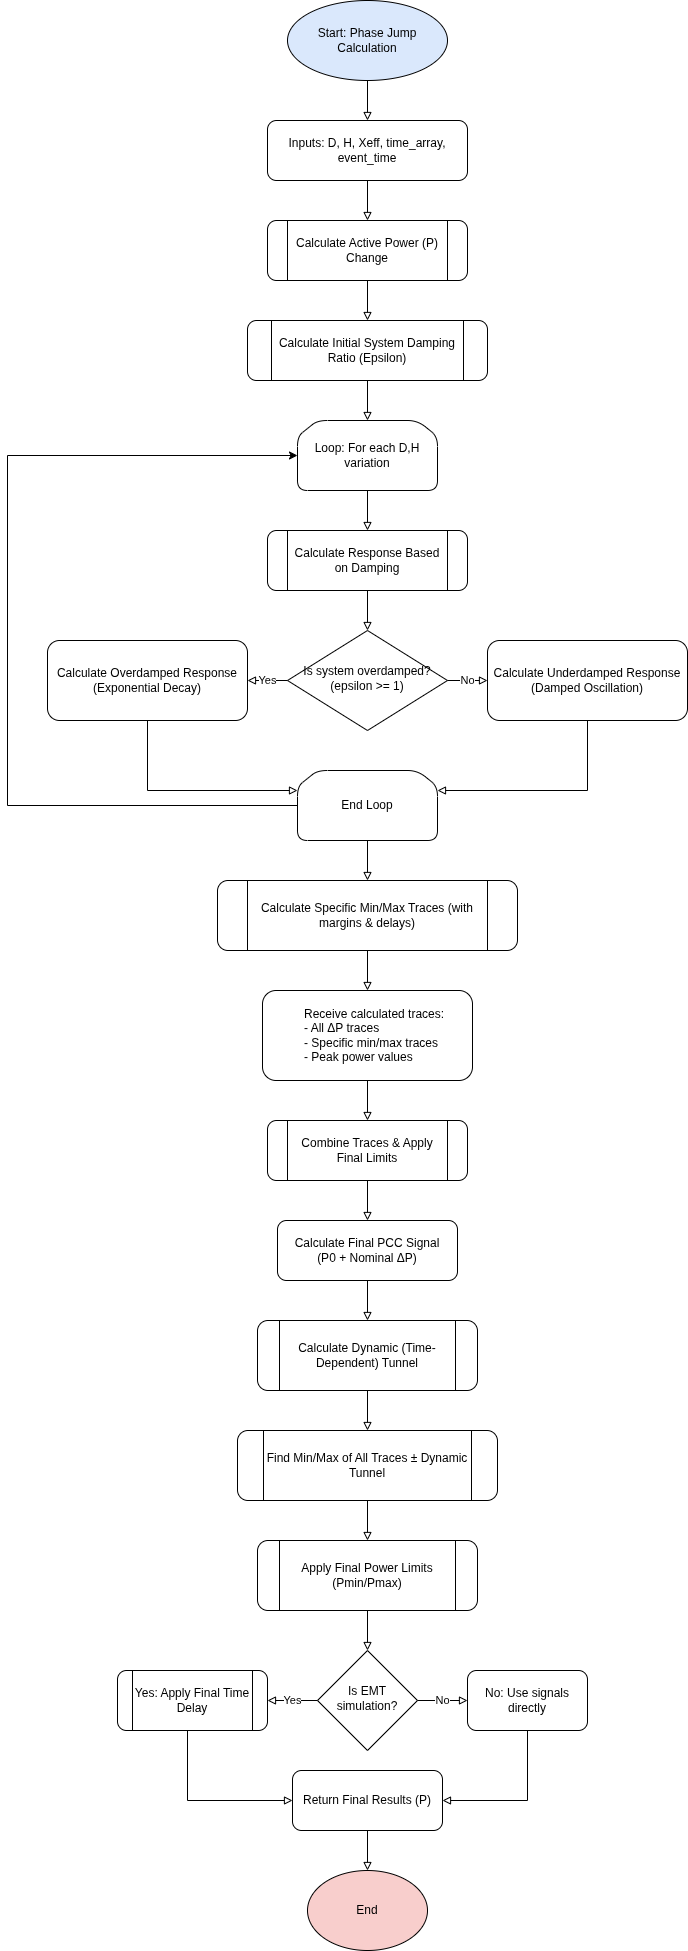
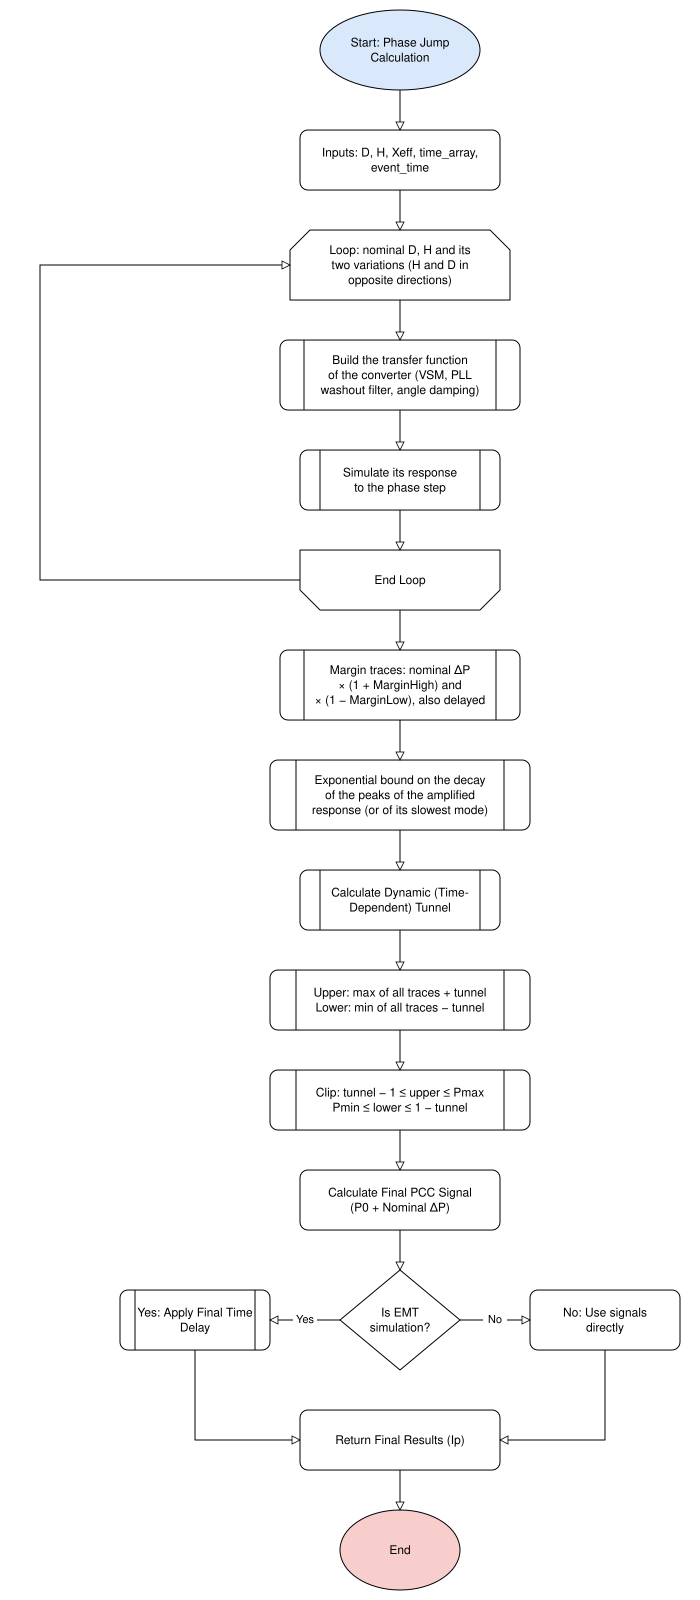
docs(gfm): describe the transfer function behind the phase jump

diff --git a/docs/manual_dev/source/development/GFM_module.rst b/docs/manual_dev/source/development/GFM_module.rst
@@ -7,18 +7,19 @@ Overview
 
 The Grid-Forming (GFM) Envelope Generation Module computes and visualizes the
 theoretical dynamic response envelopes of a GFM asset under various simulated
-grid events. It works analytically — no time-domain simulation is involved.
+grid events. No network model nor Dynawo simulation is involved.
 
 Given a set of GFM unit parameters (damping, inertia, effective reactance),
-the module solves the second-order differential equations that govern the
-unit's dynamic behavior and generates a nominal response signal together with
-upper and lower tolerance envelopes. These envelopes account for the
+the module computes the dynamic response of the unit, from closed-form
+solutions or, for the phase jump, by simulating its transfer function, and
+generates a nominal response signal together with upper and lower tolerance
+envelopes. These envelopes account for the
 parametric variations in **Damping (D)** and **Inertia (H)** that characterize
 the uncertainty band of the GFM response.
 
 The module handles four disturbance families:
 
-* **Phase Jump** — active power response to a sudden grid voltage angle change.
+* **Phase Jump** — active current response to a sudden grid voltage angle change.
 * **Amplitude Step** — reactive current response to a grid voltage amplitude step.
 * **RoCoF** (Rate of Change of Frequency) — active power response to a
   frequency ramp.
@@ -75,7 +76,7 @@ This is where the mathematical modeling lives. The structure follows the
 
 * Concrete calculators, one per disturbance family:
 
-  * ``phase_jump.py`` (``PhaseJump``) — active power response to a phase jump.
+  * ``phase_jump.py`` (``PhaseJump``) — active current response to a phase jump.
 
     .. image:: ../../GFM_Flowchart/phase_jump.*
        :width: 70%
@@ -161,26 +162,15 @@ Every concrete calculator must implement two methods:
 Key helper methods
 ^^^^^^^^^^^^^^^^^^^
 
-``_calculate_epsilon_initial_check()``
-    Computes the **damping ratio** :math:`\varepsilon` to determine whether
-    the system response is overdamped (:math:`\varepsilon \ge 1`) or
-    underdamped (:math:`\varepsilon < 1`). This drives the branching between
-    the two analytical solution paths.
-
 ``_get_time_tunnel()``
     Calculates a time-dependent tolerance band that grows exponentially after
     the event, representing the uncertainty corridor around the nominal
     response.
 
-``_limit_power_envelopes()``
-    Applies final operational limits (``p_min_injection``, ``p_max_injection``)
-    to the computed envelopes, ensuring the result stays within the unit's
-    physical constraints.
-
 Concrete calculator pattern
 ^^^^^^^^^^^^^^^^^^^^^^^^^^^^^
 
-Each concrete calculator follows the same internal structure:
+The SCR jump and RoCoF calculators follow the same internal structure:
 
 1. **Initialization** — stores event-specific parameters.
 2. **Main calculation** (``calculate_envelopes``) — orchestrates the
@@ -189,6 +179,31 @@ Each concrete calculator follows the same internal structure:
    or ``_get_underdamped_delta_p`` depending on :math:`\varepsilon`.
 4. **Analytical solution** — the ``_get_*damped_delta_p_base`` methods
    implement the closed-form solutions to the second-order ODEs.
+
+The ``PhaseJump`` calculator does not tell the two regimes apart. It builds
+the transfer function of the converter, a virtual synchronous machine whose
+PLL is a washout filter (time constant ``Tpll``) and whose angle damping is a
+linear function of :math:`D`, and simulates its response to the phase step
+with ``scipy.signal.lsim``, for the nominal :math:`H, D` and for two
+variations that move them in opposite directions (:math:`H \cdot` ``RatioMin``
+with :math:`D \cdot` ``RatioMax``, and the reverse). The envelopes are the
+maximum and minimum of those responses, of the nominal one scaled by
+``1 + MarginHigh`` and by ``1 - MarginLow`` (the latter also delayed 10 ms),
+and of an exponential fitted to the decay of the peaks of the scaled-up one,
+widened by the tunnel. They stop at the limits of the unit, and the inner side
+at :math:`\pm(1 - tunnel)`. On a time vector like the notebook's, which starts
+1 s before the jump in steps of 5 ms, this reproduces the envelopes of RTE's
+reference notebook, except where the notebook takes the rounding noise of a
+response that has died out for one more peak: DyCoV ignores extrema below
+``PHASE_JUMP_NOISE_FLOOR`` of the largest one.
+
+The notebook measures the decay of the peaks by the time the line between two
+consecutive peaks crosses 5 % of the largest one, and fails when no peak falls
+that low. DyCoV then takes the time the deviation itself falls below 5 % for
+good, provided it stays there for three time constants of the slowest mode of
+the converter, and otherwise the time constant of that mode: the first case is
+a response that stops oscillating after one overshoot, the second one whose
+peaks outlast the time vector.
 
 As an example, the ``RoCoF`` calculator models a finite-duration frequency
 ramp using the **superposition principle**: it computes the response to a

diff --git a/docs/manual/source/usage/gfm_envelopes.rst b/docs/manual/source/usage/gfm_envelopes.rst
@@ -5,10 +5,10 @@ GFM Envelope Generation
 Overview
 --------
 
-Grid-Forming (GFM) analysis is a purely analytical workflow — no dynamic
-simulation is involved. Given the key parameters of a GFM unit, DyCoV solves
-the second-order differential equations that govern its dynamic behavior and
-computes a set of *admissible response envelopes*: upper and lower bounds on
+Grid-Forming (GFM) analysis needs no Dynawo model nor simulation. Given the
+key parameters of a GFM unit, DyCoV computes its dynamic response, from
+closed-form solutions or, for the phase jump, by simulating its transfer
+function, and derives a set of *admissible response envelopes*: upper and lower bounds on
 the dynamic response for specific grid disturbances.
 
 The result is not a pass/fail verdict but a quantitative envelope that can be:
@@ -17,8 +17,7 @@ The result is not a pass/fail verdict but a quantitative envelope that can be:
 * compared against external requirements or certification criteria,
 * reused across multiple engineering studies.
 
-Because the computation is analytical, it runs much faster than a time-domain
-simulation and requires no Dynawo model.
+It runs in seconds and requires no Dynawo model.
 
 
 Supported disturbance cases
@@ -29,9 +28,12 @@ DyCoV currently supports four predefined disturbance families:
 * **Amplitude Step** — computes reactive current (:math:`I_q`) and reactive
   power envelopes in response to a step change in the grid voltage amplitude.
 
-* **Phase Jump** — computes active power (:math:`P`) envelopes in response to
-  a sudden change in the grid voltage phase angle. This is typically the most
-  critical disturbance for GFM units.
+* **Phase Jump** — computes active current (:math:`I_p`) envelopes in response
+  to a sudden change in the grid voltage phase angle. This is typically the
+  most critical disturbance for GFM units. The responses are those of the
+  transfer function of the converter (a virtual synchronous machine whose PLL
+  is a washout filter), as in RTE's reference envelopes, whatever the damping:
+  overdamped and underdamped units are treated alike.
 
 * **RoCoF** (Rate of Change of Frequency) — computes active power envelopes
   in response to a frequency ramp. Finite-duration events are modeled by
@@ -144,7 +146,7 @@ For each combination of PCS, scenario, and operating condition:
 
 * **INI dump file** (Hybrid mode only) — the exact set of input parameters
   used for the calculation, including internally derived values such as the
-  damping ratio :math:`\varepsilon`. Intended for full traceability when hybrid
+  damping ratio :math:`\varepsilon` of the SCR jump and the RoCoF. Intended for full traceability when hybrid
   configurations are used.
 
 

diff --git a/docs/tutorials/grid_forming_analysis.md b/docs/tutorials/grid_forming_analysis.md
@@ -50,13 +50,14 @@ that may be:
 DyCoV currently supports GFM envelope generation for
 **four predefined disturbance families**.
 
-Each case corresponds to a well-defined analytical formulation
+Each case corresponds to a well-defined formulation
 and a specific class of grid disturbance:
 
 - **Amplitude Step** — reactive current and reactive power envelopes
   in response to a grid voltage amplitude step.
-- **Phase Jump** — active power response to a sudden change
-  in the grid voltage phase angle.
+- **Phase Jump** — active current response to a sudden change
+  in the grid voltage phase angle, simulated from the transfer function
+  of the converter whatever its damping.
 - **RoCoF** (Rate of Change of Frequency) — active power response to a
   frequency ramp; finite-duration events are modeled by superimposing
   step responses.
@@ -72,7 +73,7 @@ and exposed through the GFM workflow.
 ## 4. Inputs required
 
 GFM analysis requires **only analytical input parameters**.
-No network model and no time-domain simulation is involved.
+No network model and no Dynawo simulation is involved.
 
 Inputs describe:
 - nominal electrical quantities,
@@ -294,8 +295,8 @@ For **hybrid GFM cases only**, DyCoV also generates:
 
 - **INI dump file (`*_ini_dump.txt`)** containing the exact set of input
   parameters used for that calculation, including internally derived values
-  such as the damping ratio $\varepsilon$. Intended for full traceability
-  when hybrid configurations are used.
+  such as the damping ratio $\varepsilon$ of the SCR jump and the RoCoF.
+  Intended for full traceability when hybrid configurations are used.
 
 ---
 

diff --git a/CHANGELOG.md b/CHANGELOG.md
@@ -23,6 +23,23 @@ templates of 1.2.1 said 1.2.1 and those of 1.3.0 said 1.0.0, so every workbook m
 warned about. One made on the templates of 1.3.0 only needs that cell set to 1.3.0; an older one
 has its data copied into `workbooks/Producer_IEC.xlsx` or `workbooks/Producer_WECC.xlsx` (#701).
 
+### The phase jump envelopes follow the transfer function of the converter
+
+The envelopes of the phase jumps of `PCS_RTE-IGFM1` are built as RTE now builds its own: from the
+simulated response of the transfer function of the converter, a virtual synchronous machine whose
+PLL is a washout filter, whatever its damping. They change for every unit, since that response
+oscillates for values of D the former formulas treated as overdamped (#760).
+
+A description of your own of a phase jump PCS, such as a copy of `PCS_RTE-IGFM1` in the
+configuration directory, needs the same update as the shipped one:
+
+- `RatioMin` and `RatioMax` now vary H and D in opposite directions, H × `RatioMin` with
+  D × `RatioMax` and the reverse; the shipped PCS sets them to 0.7 and 1.3.
+- `Tpll`, the time constant of the PLL filter, is read by the phase jump too; 0.01 s when absent
+  or 0.
+- `PmaxMOISTunnel` and `PminMOISTunnel` no longer apply to the phase jump, whose envelopes stop at
+  the limits of the unit and, on the inner side, at ±(1 − tunnel).
+
 ### Fixed
 
 - A power park module of 250 MW or more connected at HTB1 takes the reactance b the DTR gives it,
